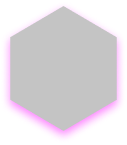
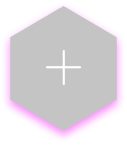
FRIENDLIST UPDATE

Changed region(s): [[0.3543, 0.331, 0.6378, 0.6069]]

diff --git a/Skedulin/Skedulin with CodeIgniter/Skedulin/assets/css/style.css b/Skedulin/Skedulin with CodeIgniter/Skedulin/assets/css/style.css
@@ -118,6 +118,25 @@ body {
 }
 
 /*--------------------------------------------------------------------------------                                       
+                                    FriendList
+=================================================================================*/
+
+.friendicon {
+  width:  160px;
+  height: auto;
+  margin-left: 10px;
+}
+.friendicon-1{
+  width:  160px;
+  height: auto;
+  margin-left: 140px;
+}
+.friendicon-2{
+  width:  160px;
+  height: auto;
+  margin-left: 55px;
+}
+/*--------------------------------------------------------------------------------                                       
                                     Schedule
 =================================================================================*/
 

diff --git a/Skedulin/Skedulin with CodeIgniter/Skedulin/application/views/v_friends.php b/Skedulin/Skedulin with CodeIgniter/Skedulin/application/views/v_friends.php
@@ -23,19 +23,70 @@
 <body>
   
   <div class="friendlist">
-      <div class="row">
-            <div  class="profile-pic-container col-2 col-sm-1 wow animated fadeInLeft" data-wow-duration="1s" data-wow-delay="1s" onclick="openHome()">
+      <div class="row" style="border-style: solid;border-color: transparent;">
+            <div  class="profile-pic-container col-2 col-sm-1 wow animated fadeInLeft" data-wow-duration="1s" data-wow-delay="1s" style="border-style: solid;border-color: transparent;" onclick="openHome() ">
                 <img class="profile-pic " src="<?php echo base_url() ?>assets/img/HomePage/Component%204.png" alt="">
             </div>
-            <div class="col-8 col-sm-10 text-center">
+            <div class="name-container col-1">
+              <h5 style="font-size: 35px;"class="wow animated fadeIn"><?php echo $this->session->userdata("username");?></h5>
+              <a class="wow animated fadeIn"href="<?php echo base_url('index.php/login/logout'); ?>"style="color:rgb(169,169,169)";>Logout</a>
+            </div>
+            <div class="col-7 col-sm-9 text-center" style="border-style: solid;border-color: transparent;padding-right: 170px">
                 <img class="home-title" src="<?php echo base_url() ?>assets/img/HomePage/Logo.png" alt="">
                 <img class="home-title" src="<?php echo base_url() ?>assets/img/HomePage/Header.png" alt="">
                 <br><br>
                 <img class="home-title" src="<?php echo base_url() ?>assets/img/FriendList/Friend List.png" alt="">
             </div>
-            <div class="notif-button-container col-2 col-sm-1 wow animated fadeInRight" data-wow-duration="1s" data-wow-delay="1s">
+            <div class="notif-button-container col-2 col-sm-1 wow animated fadeInRight" data-wow-duration="1s" data-wow-delay="1s" style="border-style: solid;border-color: transparent;">
               <img class="notification-button" src="<?php echo base_url() ?>assets/img/HomePage/Component%203.png" alt="">
           </div>
+          <div class="home-inner row justify-content-center" style="border-style: solid; border-color: transparent;">
+            <div class="home-side-container col-2 col-sm-1" style="position: absolute; top: 55%;left: 10%;transform: translate(-50%,-50%); border-style: solid;border-color: transparent;">
+            <button style="background-color: Transparent; background-repeat:no-repeat; border: none;cursor:pointer;overflow: hidden;"><img src="<?php echo base_url() ?>assets\img\FriendList\arrowleft.png"></button>
+          </div>
+          <div class="main-text-container col-12 col-md-10 col-sm-10" style="border-style: solid;border-color: transparent;">
+            <img class="friendicon-1" src="<?php echo base_url() ?>assets\img\FriendList\Polygon.png">
+            <img class="friendicon" src="<?php echo base_url() ?>assets\img\FriendList\Polygon.png">
+            <img class="friendicon" src="<?php echo base_url() ?>assets\img\FriendList\Polygon.png">
+            <img class="friendicon" src="<?php echo base_url() ?>assets\img\FriendList\Polygon.png">
+            <img class="friendicon" src="<?php echo base_url() ?>assets\img\FriendList\Polygon.png">
+            <img class="friendicon" src="<?php echo base_url() ?>assets\img\FriendList\Polygon.png">
+            <img class="friendicon" src="<?php echo base_url() ?>assets\img\FriendList\Polygon.png">
+            <img class="friendicon" src="<?php echo base_url() ?>assets\img\FriendList\Polygonbg.png">
+
+              <img class="friendicon-2" src="<?php echo base_url() ?>assets\img\FriendList\Polygonbg.png">
+              <img class="friendicon" src="<?php echo base_url() ?>assets\img\FriendList\Polygon.png">
+              <img class="friendicon" src="<?php echo base_url() ?>assets\img\FriendList\Polygon.png">
+              <img class="friendicon" src="<?php echo base_url() ?>assets\img\FriendList\Polygon.png">
+              <img class="friendicon" src="<?php echo base_url() ?>assets\img\FriendList\Polygon.png">
+              <img class="friendicon" src="<?php echo base_url() ?>assets\img\FriendList\Polygon.png">
+              <img class="friendicon" src="<?php echo base_url() ?>assets\img\FriendList\Polygon.png">
+              <img class="friendicon" src="<?php echo base_url() ?>assets\img\FriendList\Polygon.png">
+
+            <img class="friendicon-1" src="<?php echo base_url() ?>assets\img\FriendList\Polygon.png">
+            <img class="friendicon" src="<?php echo base_url() ?>assets\img\FriendList\Polygon.png">
+            <img class="friendicon" src="<?php echo base_url() ?>assets\img\FriendList\Polygon.png">
+            <img class="friendicon" src="<?php echo base_url() ?>assets\img\FriendList\Polygon.png">
+            <img class="friendicon" src="<?php echo base_url() ?>assets\img\FriendList\Polygon.png">
+            <img class="friendicon" src="<?php echo base_url() ?>assets\img\FriendList\Polygon.png">
+            <img class="friendicon" src="<?php echo base_url() ?>assets\img\FriendList\Polygon.png">
+            <img class="friendicon" src="<?php echo base_url() ?>assets\img\FriendList\Polygonbg.png">
+
+          <img class="friendicon-2" src="<?php echo base_url() ?>assets\img\FriendList\Polygonbg.png">
+          <img class="friendicon" src="<?php echo base_url() ?>assets\img\FriendList\Polygon.png">
+          <img class="friendicon" src="<?php echo base_url() ?>assets\img\FriendList\Polygon.png">
+          <img class="friendicon" src="<?php echo base_url() ?>assets\img\FriendList\Polygon.png">
+          <img class="friendicon" src="<?php echo base_url() ?>assets\img\FriendList\Polygon.png">
+          <img class="friendicon" src="<?php echo base_url() ?>assets\img\FriendList\Polygon.png">
+          <img class="friendicon" src="<?php echo base_url() ?>assets\img\FriendList\Polygon.png">
+          <img class="friendicon" src="<?php echo base_url() ?>assets\img\FriendList\Polygon.png">
+          </div>
+
+          <div class="col-2 col-md-1 col-sm-1" style="position: absolute; top: 55%;left: 90%;transform: translate(-50%,-50%); border-style: solid;border-color: transparent;">
+            <button style="background-color: Transparent; background-repeat:no-repeat; border: none;cursor:pointer;overflow: hidden;"><img src="<?php echo base_url() ?>assets\img\FriendList\arrowright.png"></button>
+          </div>
+        </div>
+          
      </div>
 
     <script>

diff --git a/Skedulin/Skedulin with CodeIgniter/Skedulin/application/views/v_MySchedule.php b/Skedulin/Skedulin with CodeIgniter/Skedulin/application/views/v_MySchedule.php
@@ -28,8 +28,8 @@
                 <img class="profile-pic " src="<?php echo base_url() ?>assets/img/HomePage/Component%204.png" alt="" onclick="openHome()">
             </div>
             <div class="name-container col-1 wow animated fadeInLeft" data-wow-duration="1s" data-wow-delay="1s">
-                <h5><?php echo $this->session->userdata("name");?></h5>
-                <a href="<?php echo base_url('index.php/login/logout'); ?>">Logout</a>
+                <h5 style="font-size: 35px;>"<?php echo $this->session->userdata("username");?></h5>
+                <a href="<?php echo base_url('index.php/login/logout'); ?>"style="color:rgb(169,169,169)">Logout</a>
             </div>
 	        <div class="col-6 col-sm-8 text-center wow animated zoomIn" data-wow-duration="1s" data-wow-delay=".5s">
                 <img class="home-title" src="<?php echo base_url() ?>assets/img/HomePage/Logo.png" alt="">

diff --git a/Skedulin/Skedulin with CodeIgniter/Skedulin/application/views/v_home.php b/Skedulin/Skedulin with CodeIgniter/Skedulin/application/views/v_home.php
@@ -28,8 +28,8 @@
                 <img class="profile-pic " src="<?php echo base_url() ?>assets/img/HomePage/Component%204.png" alt="">
             </div>
             <div class="name-container col-1">
-            	<h5><?php echo $this->session->userdata("name");?></h5>
-            	<a href="<?php echo base_url('index.php/login/logout'); ?>">Logout</a>
+            	<h5 style="font-size: 35px;"><?php echo $this->session->userdata("username");?></h5>
+            	<a href="<?php echo base_url('index.php/login/logout'); ?>" style="color:rgb(169,169,169);" >Logout</a>
             </div>
 	        <div class="col-6 col-sm-8 text-center">
                 <img class="home-title" src="<?php echo base_url() ?>assets/img/HomePage/Logo.png" alt="">
